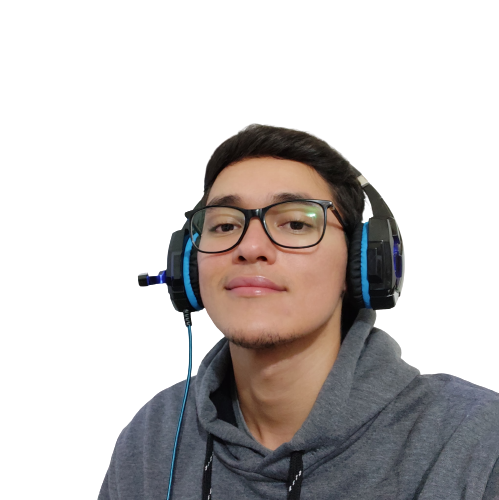
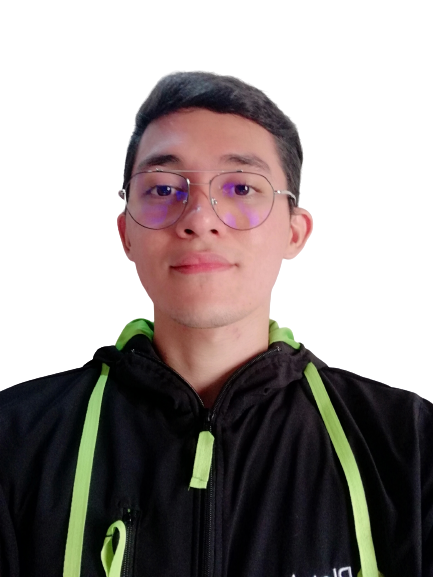
feat(svg): update profile picture

diff --git a/index.html b/index.html
@@ -145,8 +145,8 @@
                   />
                   <image
                     class="home__blob-image"
-                    x="-10"
-                    y="-30"
+                    x="10"
+                    y="-25"
                     href="./assets/img/perfil.png"
                   />
                 </g>

diff --git a/assets/css/styles.css b/assets/css/styles.css
@@ -297,12 +297,12 @@ img {
 }
 
 .home__blob {
-  width: 200px;
+  width: 180px;
   fill: var(--first-color);
 }
 
 .home__blob-image {
-  width: 220px;
+  width: 200px;
 }
 
 .home__data {
